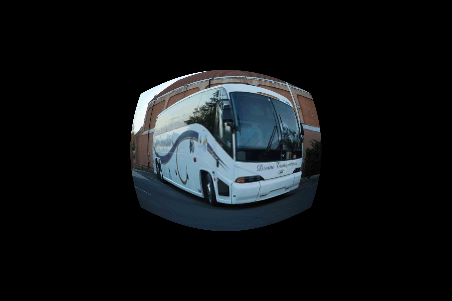
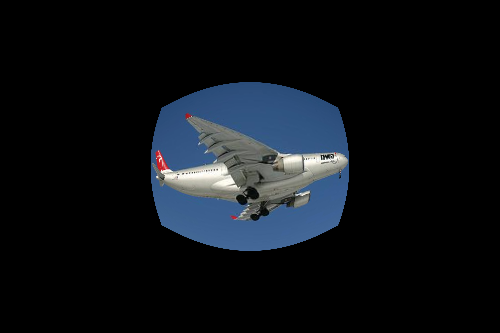
add image_cut

Changed region(s): [[0.2788, 0.2093, 0.7124, 0.7774]]

diff --git a/fisheyeCam.py b/fisheyeCam.py
@@ -9,12 +9,15 @@ import sys
 class FishEyeGenerator:
 
     # dst_shape format: [rows, cols]
-    def __init__(self, focal_len, dst_shape):
+    def __init__(self, focal_len, dst_shape, cut = False):
 
         self._focal_len = focal_len
         # 输出的鱼眼图像的行和列大小
         self._shape = dst_shape
         self._ratio = min(self._shape[0], self._shape[1]) / (self._focal_len * pi)
+
+        # 是否要进行裁剪，去掉冗余的黑色框
+        self.cut = cut
 
         mask = np.ones([self._shape[0], self._shape[1]], dtype=np.uint8)
         square_r = (min(self._shape[0], self._shape[1]) / 2) ** 2
@@ -143,8 +146,8 @@ class FishEyeGenerator:
         self._z_trans = self.ZTRANS_RANGE[0] * (1 - temp) + self.ZTRANS_RANGE[1] * temp
 
     def _calc_cord_map(self, cv_img):
-        self._init_ext_matrix()
-        self._init_pin_matrix(cv_img.shape)
+        self._init_ext_matrix()  # 得到的矩阵是六个参数自由度：旋转和平移
+        self._init_pin_matrix(cv_img.shape)  # 得到的是从相机坐标系到平面坐标系的转换矩阵
 
         src_rows = cv_img.shape[0]
         src_cols = cv_img.shape[1]
@@ -157,7 +160,7 @@ class FishEyeGenerator:
         cord = cord.reshape(-1, 2)
 
         # shape=(dst_rows*dst_cols, 2)
-        cord = np.array(cord) / self._ratio
+        # cord = np.array(cord) / self._ratio # ？？？？？？
 
         radius_array = np.sqrt(np.square(cord[:, 0]) + np.square(cord[:, 1])) + 1e-10
         theta_array = radius_array / self._focal_len
@@ -192,8 +195,8 @@ class FishEyeGenerator:
         self._map_rows = pin_image_cords[:, 1]
 
         # bug1: 少了一个平移
-        self._map_rows = self._map_rows + np.float(src_rows/2)
-        self._map_cols = self._map_cols + np.float(src_cols/2)
+        self._map_rows = self._map_rows + np.float(src_rows / 2)
+        self._map_cols = self._map_cols + np.float(src_cols / 2)
 
         self._map_cols = self._map_cols.round().astype(int)
         self._map_rows = self._map_rows.round().astype(int)
@@ -205,9 +208,53 @@ class FishEyeGenerator:
         index5 = pin_image_cords[:, 2] <= 0
 
         bad_index = index1 | index2 | index3 | index4
-        bad_index = bad_index | self._bad_index
+        # bad_index = bad_index | self._bad_index
+
+        if self.cut:
+            self.get_cut_cord(bad_index)
+
         self._map_cols[bad_index] = cv_img.shape[1]
         self._map_rows[bad_index] = 0
+
+    def get_cut_cord(self, bad_index):
+        col_check, row_check = (False, False)
+        bad_index = bad_index.reshape(self._shape)
+        index_shape = bad_index.shape
+        top_left = [0, 0]
+
+        for i in range(max(self._shape)):
+            if i < index_shape[0]:
+                if False in bad_index[i, :] and row_check is False:
+                    top_left[0] = i
+                    row_check = True
+
+            if i < index_shape[1]:
+                if False in bad_index[:, i] and col_check is False:
+                    top_left[1] = i
+                    col_check = True
+
+            if row_check is True and col_check is True:
+                break
+
+        self.top_left = top_left
+        col_check, row_check = (False, False)
+        down_right = list(self._shape)
+
+        for i in range(max(self._shape)).__reversed__():
+            if i < index_shape[0]:
+                if False in bad_index[i, :] and row_check is False:
+                    down_right[0] = i
+                    row_check = True
+
+            if i < index_shape[1]:
+                if False in bad_index[:, i] and col_check is False:
+                    down_right[1] = i
+                    col_check = True
+
+            if row_check is True and col_check is True:
+                break
+
+        self.down_right = down_right
 
     def _extend_img_color(self, cv_img):
         dst_img = np.hstack((cv_img, np.zeros((cv_img.shape[0], 1, 3), dtype=np.uint8)))
@@ -226,6 +273,8 @@ class FishEyeGenerator:
         cv_img = self._extend_img_color(cv_img)
         dst = np.array(cv_img[(self._map_rows, self._map_cols)])
         dst = dst.reshape(self._shape[0], self._shape[1], 3)
+        if self.cut:
+            dst = dst[self.top_left[0]: self.down_right[0], self.top_left[1]: self.down_right[1], :]
         return dst
 
     def transFromGray(self, cv_img, reuse=False):
@@ -239,7 +288,6 @@ class FishEyeGenerator:
 
 
 def test_color():
-
     img = cv2.imread("D://New_Pycharm_Project//Distorted//images//00000.png")
     trans = FishEyeGenerator(300, [img.shape[0], img.shape[1]])
     # im_annot = cv2.imread("F:/Code/Github/FisheyeSeg/annot.png", 0)

diff --git a/virtualCam.py b/virtualCam.py
@@ -139,8 +139,8 @@ class VirtualCamera:
             # dis_x = x_1 * K + 2.0 * self.KpCoeff[3] * x_y + self.KpCoeff[4] * (r_2 + 2.0 * x_2)
             # dis_y = y_1 * K + 2.0 * self.KpCoeff[4] * x_y + self.KpCoeff[3] * (r_2 + 2.0 * y_2)
 
-            dis_x = x_1 * K + x_1 * self.KpCoeff[3] * r_2
-            dis_y = y_1 * K + y_1 * self.KpCoeff[3] * r_2
+            dis_x = x_1 * K + x_1 * self.KpCoeff[3] * np.sqrt(r_2)
+            dis_y = y_1 * K + y_1 * self.KpCoeff[3] * np.sqrt(r_2)
 
             # camera coordinate -> image coordinate(这个时候就不是中心是原点了)
             x = self.K[0, 0] * dis_x + self.K[0, 2]
@@ -203,7 +203,6 @@ class MeshGen:
     def __init__(self, H, W):
         self.H = H
         self.W = W
-
         # 将物面进行切分，分别在x和y方向上
         x = np.linspace(-self.W / 2, self.W / 2, self.W)
         y = np.linspace(-self.H / 2, self.H / 2, self.H)

diff --git a/introDistort.py b/introDistort.py
@@ -115,6 +115,8 @@ def test_distortion(img_path):
     src = cv.imread(os.path.join(images_root, img_path))
     cv.imshow("src", src)
     H, W = src.shape[:2]
+    # H = min(H, W)
+    # W = H
 
     # 鱼眼变换
     fisheye_distort = FishEyeGenerator(200, [H, W])
@@ -132,7 +134,7 @@ def test_distortion(img_path):
 
     # 枕形畸变
     pincushion_distort = VirtualCamera(dst_h=H, dst_w=W, src_shape=src.shape)
-    pincushion_distort.set_Pillow_dist(-0.07, 0.0)
+    pincushion_distort.set_Pillow_dist(-0.17, 0.0)
     dst3 = pincushion_distort.transFromColor(src, 200, reuse=False)
     cv.imshow("pincushion_dst", dst3)
     cv.imwrite(os.path.join(images_root, "test_distortion//test_pincushion.png"), dst3)
@@ -141,4 +143,4 @@ def test_distortion(img_path):
 
 
 # 测试images下的某一张图片
-test_distortion("00000.png")
+test_distortion("2010_002065.jpg")
